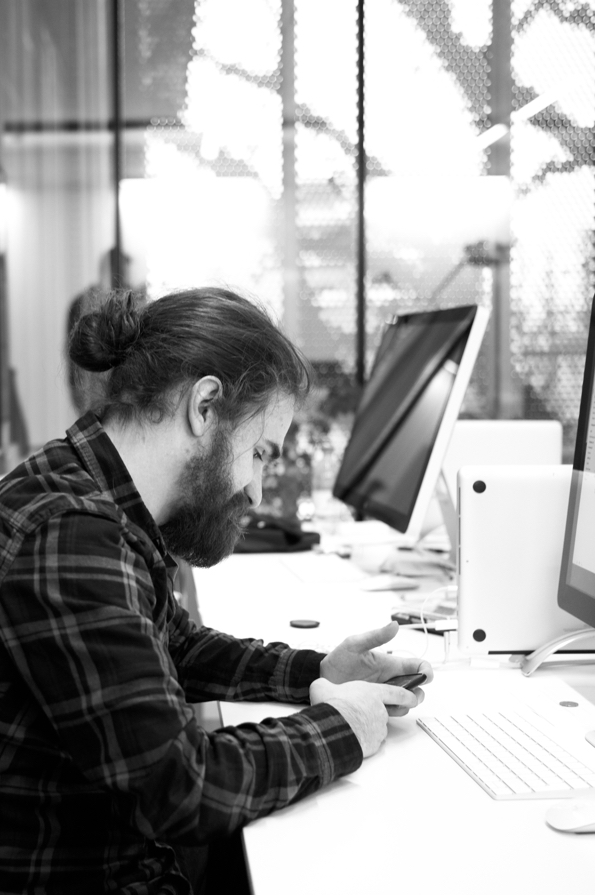
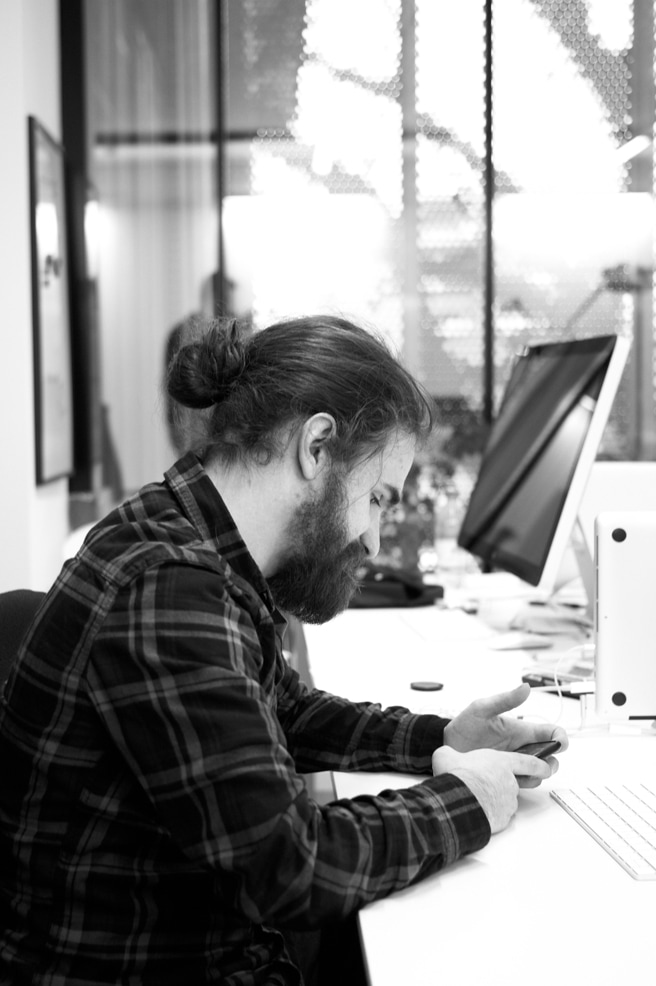
refactoring of profile image

diff --git a/src/components/ProfileIntro/index.js b/src/components/ProfileIntro/index.js
@@ -2,6 +2,7 @@ import React from 'react'
 import styled from 'styled-components'
 import WeekDistance from '../WeekDistance'
 import Intro from '../Intro'
+import Image from '../Image'
 import { fonts, colors, media } from '../../utils/commonStyles'
 
 const ProfileWrapper = styled.section`
@@ -16,35 +17,21 @@ const ProfileWrapper = styled.section`
   `}
 `
 
-const Box = styled.div`
+const StyledImage = styled(Image)`
   grid-area: 1 / 4 / last-line / end;
   background: ${colors.blue900};
-  position: relative;
-  overflow: hidden;
 
   img {
-    height: 100%;
-    width: auto;
     mix-blend-mode: lighten;
-    opacity: .15;
+    opacity: .1;   
+    width: 100%;
+    height: 100%;
     display: block;
-    position: absolute;
-    top: -100%;
-    right: -100%;
-    bottom: -100%;
-    left: -100%;
-    margin: auto;
+    object-fit: cover;
+    
     ${media.sm`
-      opacity: .30;
-      width: 100%;
-      height: auto;
+      opacity: .25;
     `}
-  }
-
-  &:before {
-    content: '';
-    padding-top: 145%;
-    display: block;
   }
 
   ${media.sm`
@@ -100,7 +87,25 @@ const ProfileIntro = ({ content }) =>
       <Content>{content()}</Content>
     </InfoWrapper>
     <StyledWeekDistance />
-    <Box><img src="/images/michele-mazzucco-portrait.jpg" /></Box>
+    <StyledImage 
+      src="/images/michele-mazzucco-portrait.jpg"
+      alt="Michele Mazzucco - Interdiscliplinary Designer"
+      sources={[{
+        media: 'max-width: 40rem',
+        srcset: [
+          '/images/michele-mazzucco-portrait-square.jpg 1x',
+          '/images/michele-mazzucco-portrait-square-2x.jpg 2x',
+          '/images/michele-mazzucco-portrait-square-3x.jpg 3x'
+        ]
+      },{
+        media: 'min-width: 40rem',
+        srcset: [
+          '/images/michele-mazzucco-portrait.jpg 1x',
+          '/images/michele-mazzucco-portrait-2x.jpg 2x',
+          '/images/michele-mazzucco-portrait-3x.jpg 3x'
+        ]       
+      }]}
+    />
   </ProfileWrapper>
 
 export default ProfileIntro

diff --git a/gatsby-config.js b/gatsby-config.js
@@ -1,3 +1,10 @@
+const { 
+  filesystem, 
+  ga, 
+  favicon, 
+  manifest 
+} = require('./gatsby-plugins-opts.js')
+
 module.exports = {
   pathPrefix: '/',
   siteMetadata: {
@@ -6,57 +13,16 @@ module.exports = {
   plugins: [
     {
       resolve: 'gatsby-source-filesystem',
-      options: {
-        name: 'data',
-        path: './src/data/'
-      }
+      options: filesystem
+    },{
+      resolve: 'gatsby-plugin-google-analytics',
+      options: ga
     },{
       resolve: 'gatsby-plugin-favicon',
-      options: {
-        logo: './static/favicon.png',
-        injectHTML: true,
-        icons: {
-          android: false,
-          appleIcon: false,
-          appleStartup: false,
-          coast: false,
-          favicons: true,
-          firefox: false,
-          twitter: false,
-          yandex: false,
-          windows: false
-        }
-      }
-    },
-    {
-      resolve: 'gatsby-plugin-google-analytics',
-      options: {
-        trackingId: 'UA-113472346-1',
-        anonymize: true,
-      },
-    },
-    {
+      options: favicon
+    },{
       resolve: 'gatsby-plugin-manifest',
-      options: {
-        name: 'Michele Mazzucco',
-        short_name: 'Michele Mazzucco | In',
-        start_url: '/',
-        background_color: '#f7f0eb',
-        theme_color: '#a2466c',
-        display: 'minimal-ui',
-        icons: [
-          {
-            src: '/favicons/favicon-16x16.png',
-            sizes: '16x16',
-            type: 'image/png'
-          },
-          {
-            src: '/favicons/favicon-32x32.png',
-            sizes: '32x32',
-            type: 'image/png'
-          }
-        ]
-      }
+      options: manifest
     },
     'gatsby-plugin-offline',
     'gatsby-plugin-react-helmet',

diff --git a/gatsby-plugins-opts.js b/gatsby-plugins-opts.js
@@ -1,0 +1,53 @@
+const filesystem = {
+  name: 'data',
+  path: './src/data/'
+}
+
+const ga = {
+  trackingId: 'UA-113472346-1',
+  anonymize: true,
+}
+
+const favicon = {
+  logo: './src/assets/favicon.png',
+  injectHTML: true,
+  icons: {
+    android: true,
+    appleIcon: true,
+    appleStartup: false,
+    coast: false,
+    favicons: true,
+    firefox: false,
+    twitter: true,
+    yandex: false,
+    windows: false
+  }
+}
+
+const manifest = {
+  name: 'Michele Mazzucco',
+  short_name: 'Michele Mazzucco | In',
+  start_url: '/',
+  background_color: '#f7f0eb',
+  theme_color: '#a2466c',
+  display: 'minimal-ui',
+  icons: [
+    {
+      src: '/favicons/favicon-16x16.png',
+      sizes: '16x16',
+      type: 'image/png'
+    },
+    {
+      src: '/favicons/favicon-32x32.png',
+      sizes: '32x32',
+      type: 'image/png'
+    }
+  ]
+}
+
+module.exports = { 
+  filesystem, 
+  ga, 
+  favicon, 
+  manifest 
+}

diff --git a/src/components/Image/index.js b/src/components/Image/index.js
@@ -1,11 +1,12 @@
 import React from 'react'
 import PropTypes from 'prop-types'
 
-const Image = ({ src, alt, sources }) => {
-  const renderSource = ({ media, srcset }) => <source media={`(${media})`} srcset={srcset.join(', ')} />
+const Image = ({ src, alt, sources, className }) => {
+  const renderSource = ({ media, srcset }, i) =>
+    <source key={i} media={`(${media})`} srcSet={srcset.join(', ')} />
 
   return (
-    <picture>
+    <picture className={className}>
       {sources && sources.map(renderSource)}
       <img src={src} alt={alt} />
     </picture>
@@ -17,7 +18,7 @@ Image.propTypes = {
   alt: PropTypes.string,
   sources: PropTypes.arrayOf(PropTypes.shape({
     media: PropTypes.string.isRequired,
-    srcset: PropTypes.arrayOf(PropTypes.string).isRequired
+    //srcset: PropTypes.arrayOf(PropTypes.string).isRequired
   }))
 }
 

diff --git a/src/components/EmailMe/index.js b/src/components/EmailMe/index.js
@@ -2,6 +2,15 @@ import React from 'react'
 import PropTypes from 'prop-types'
 
 const EmailMe = ({ className, text }) => 
-  <a className={className} href='mailto:hello@michelemazzucco.it'>{text}</a>
+  <a className={className} rel="noopener" href='mailto:hello@michelemazzucco.it'>{text}</a>
+
+EmailMe.propTypes = {
+  className: PropTypes.string,
+  text: PropTypes.string.isRequired
+}
+
+EmailMe.defaultProps = {
+  className: ''
+}
 
 export default EmailMe
